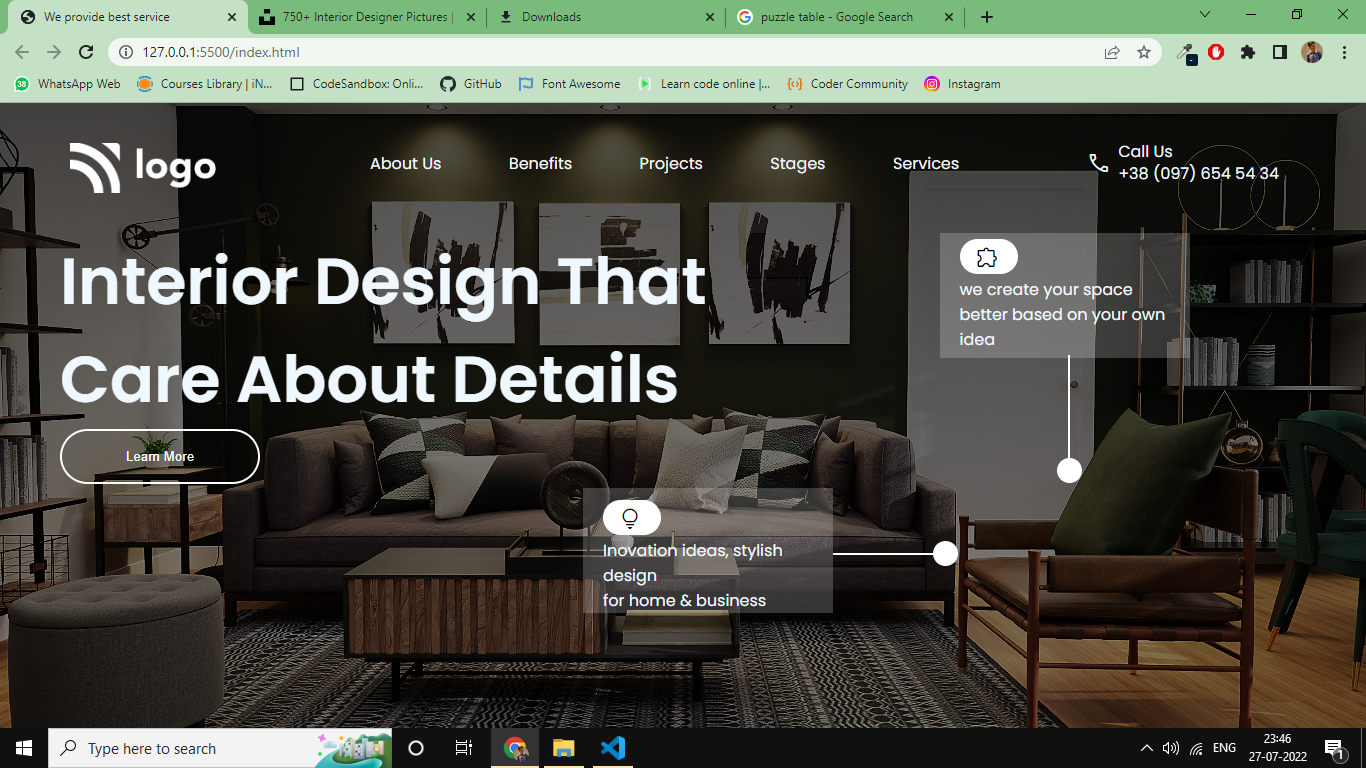
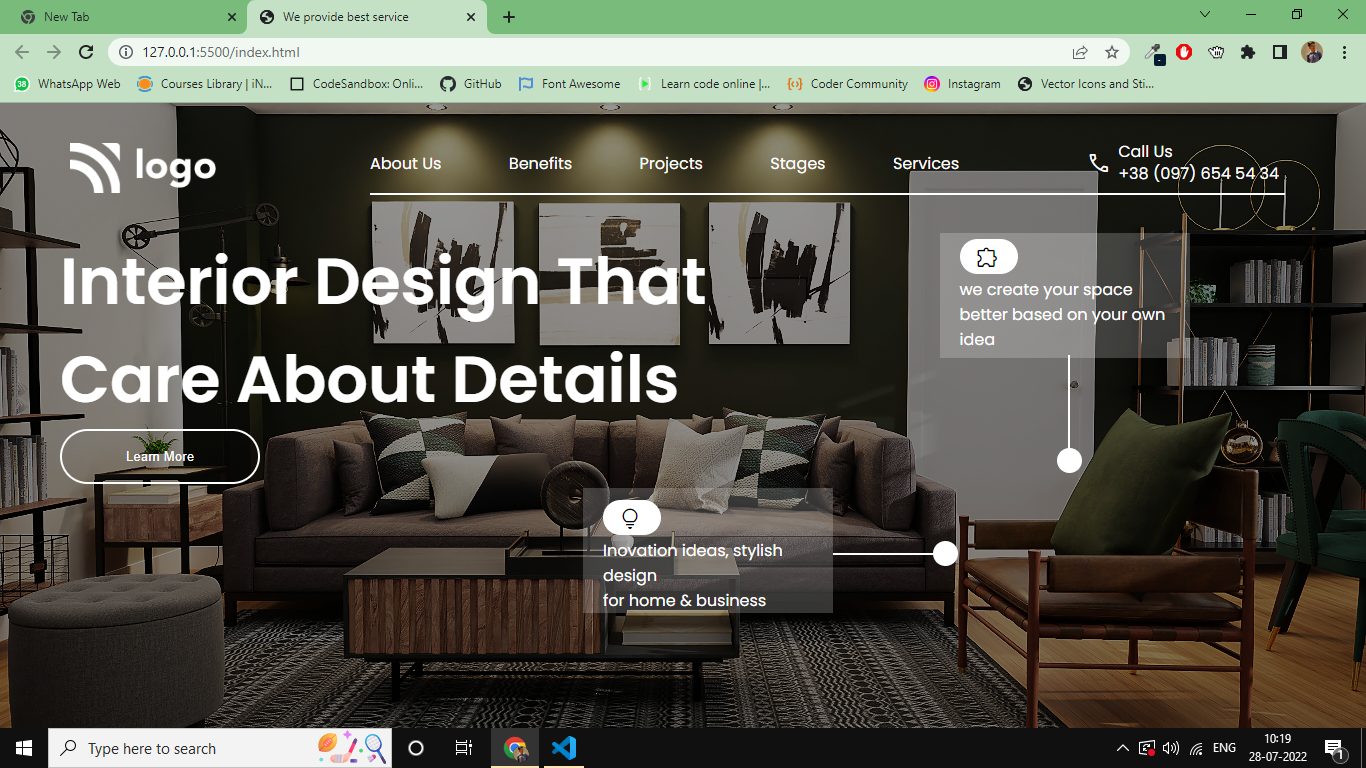
navBar_line Update

diff --git a/css/style.css b/css/style.css
@@ -14,18 +14,27 @@ body {
     background-size: cover;
     height: 100vh;
     width: 100%;
-    color: aliceblue;
+    color: rgb(255, 255, 255);
     font-family: "Poppins", sans-serif;
 }
 
 /* navbar____________ */
 
-div img[src="./image/white-logo.png"]{
-    /* border: 2px solid salmon; */
+div img[src="./image/white-logo.png"] {
     position: absolute;
     left: 70px;
     top: 40px;
     height: 50px;
+}
+
+.nav-line {
+    height: 1px;
+    width: 915px;
+    position: absolute;
+    top: 90px;
+    left: 370px;
+    background-color: #fff;
+    padding: 0.2mm;
 }
 
 .nav-lists {
@@ -161,7 +170,7 @@ div img[src="./image/white-logo.png"]{
 }
 
 .circle-2 {
-    
+
     position: absolute;
     height: 25px;
     width: 25px;
@@ -171,7 +180,7 @@ div img[src="./image/white-logo.png"]{
     border-radius: 25px;
 }
 
-.bgc{
+.bgc {
     /* border: 2px solid red; */
     background-color: #fff;
     color: black;

diff --git a/index.html b/index.html
@@ -10,11 +10,11 @@
         href="https://fonts.googleapis.com/css2?family=Material+Symbols+Outlined:opsz,wght,FILL,GRAD@48,400,0,0" />
     <title>We provide best service</title>
 </head>
-
 <body>
     <div class="container">
         <nav>
             <div><img src="./image/white-logo.png" alt="Logo" /></div>
+            <div class="nav-line"></div>
             <ul class="nav-lists">
                 <li class="nav-list">About Us</li>
                 <li class="nav-list">Benefits</li>
